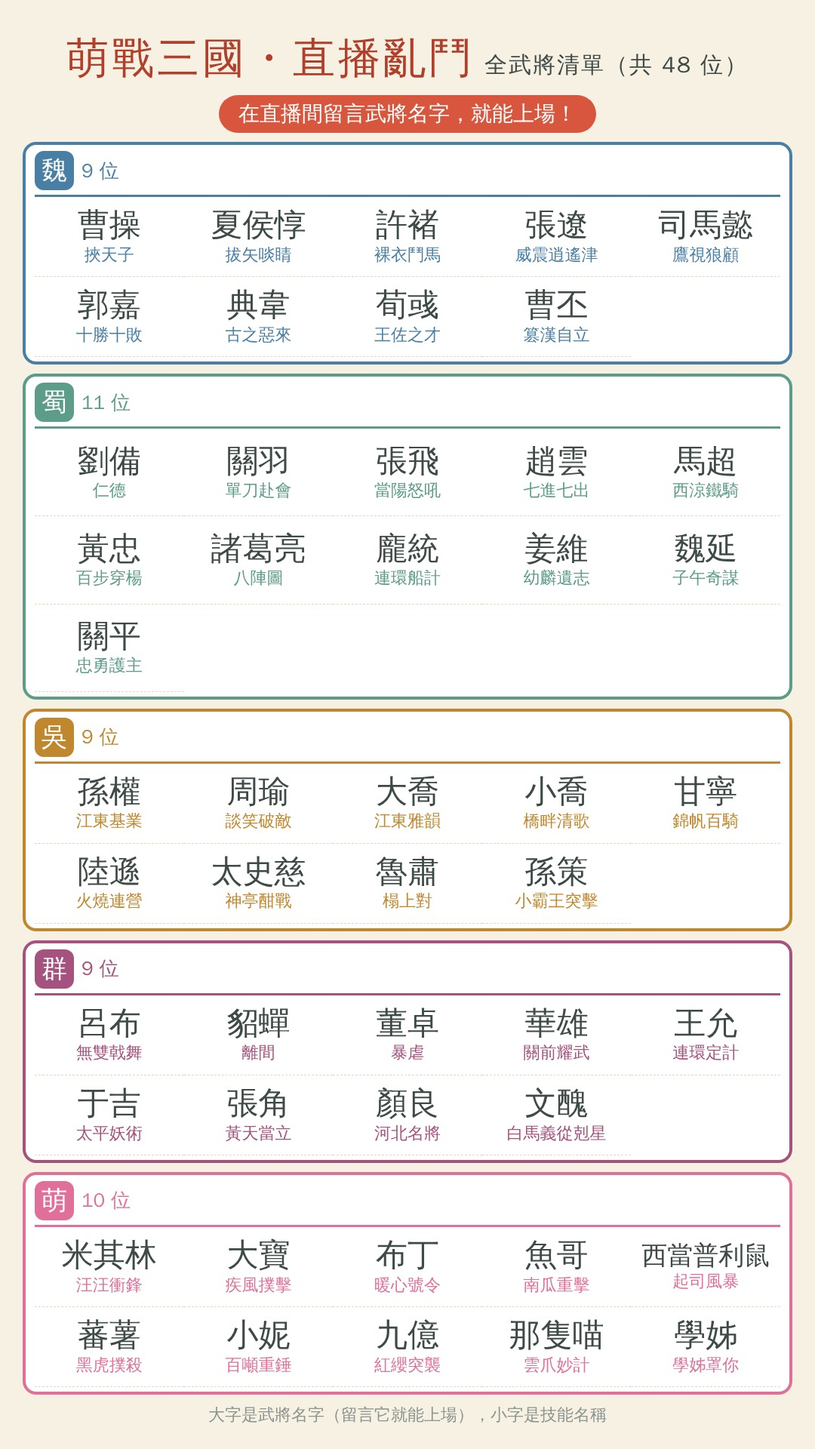
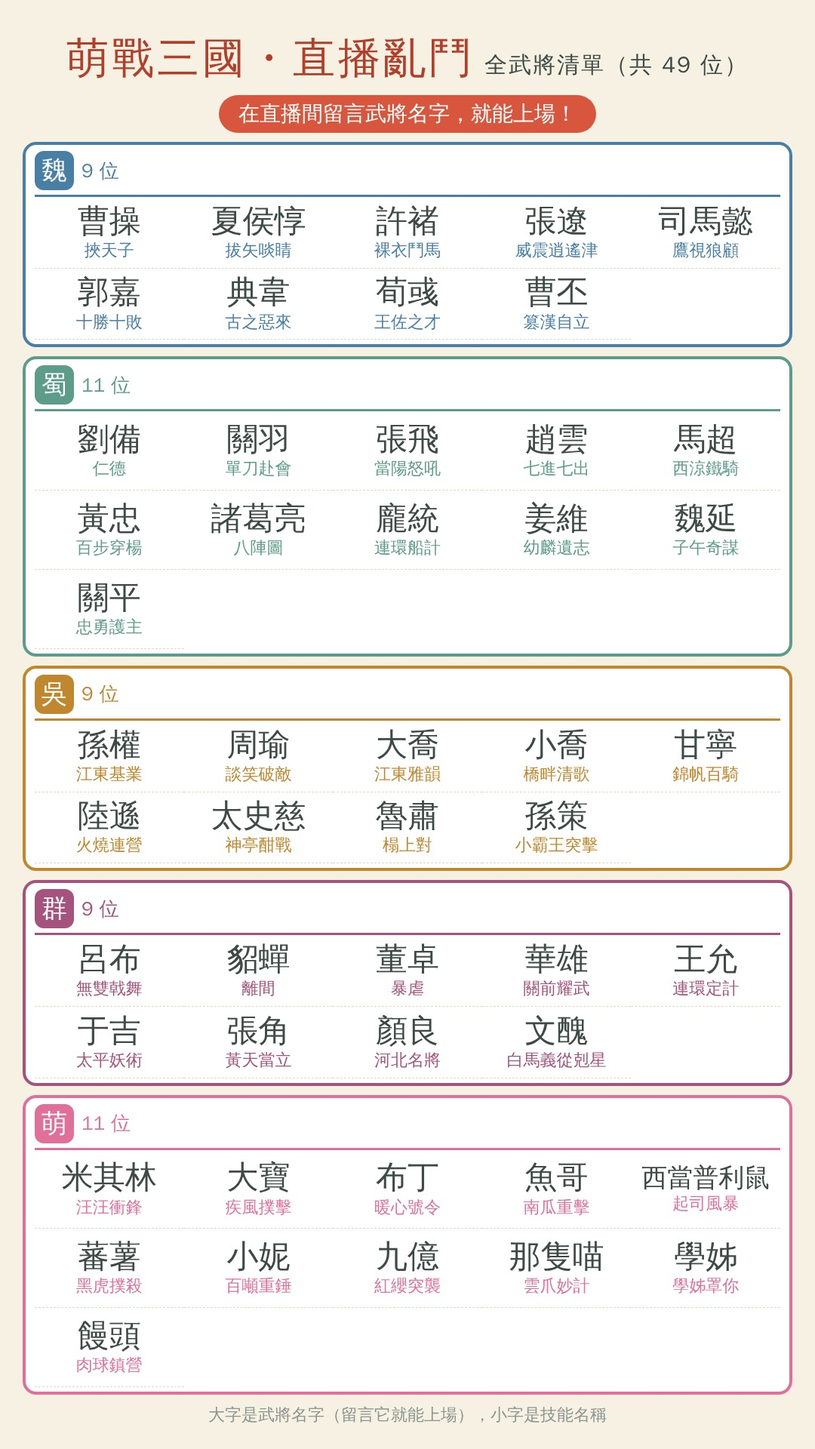
新角色「饅頭」（萌國猛將）：圖、資料、特效、四組動畫 (#95)
* 新增萌國角色「學姊」（統帥）＋動畫提示詞；原圖星巴克商標塗掉；cutout_hero 加 --model

Claude-Session: https://claude.ai/code/session_01J1mi4tQsbQufTfnNbsrTar

* 學姊待機動畫提示詞改成自拍

Claude-Session: https://claude.ai/code/session_01J1mi4tQsbQufTfnNbsrTar

* 學姊加第二組待機提示詞：拿麥克風唱歌

Claude-Session: https://claude.ai/code/session_01J1mi4tQsbQufTfnNbsrTar

* 學姊走路／普攻／技能逐格動畫登記（原圖商標塗掉）；待機圖不能用須重生

Claude-Session: https://claude.ai/code/session_01J1mi4tQsbQufTfnNbsrTar

* 學姊待機提示詞：加入杯子當麥克風版本

Claude-Session: https://claude.ai/code/session_01J1mi4tQsbQufTfnNbsrTar

* 學姊：待機動畫（拿麥克風唱歌，上半身格接技能圖下半身）

Claude-Session: https://claude.ai/code/session_01J1mi4tQsbQufTfnNbsrTar

* 修正轉輪語音後半段被切掉

Claude-Session: https://claude.ai/code/session_01J1mi4tQsbQufTfnNbsrTar

* 新角色自動開放：可選武將記下已知名單，舊設定不再擋掉那隻喵、學姊

Claude-Session: https://claude.ai/code/session_01J1mi4tQsbQufTfnNbsrTar

* 特效全面改用圖片特效（CC0 素材包），沒有圖時退回程式畫的

Claude-Session: https://claude.ai/code/session_01J1mi4tQsbQufTfnNbsrTar

* 試作：3D 武將動作拍成連續圖的工具（關羽）

Claude-Session: https://claude.ai/code/session_01J1mi4tQsbQufTfnNbsrTar

* 三國武將 38 隻動畫提示詞（走路／攻擊／技能／待機）與每日隊列

Claude-Session: https://claude.ai/code/session_01J1mi4tQsbQufTfnNbsrTar

* Gemini 排程指令與交接方式（Drive 資料夾檔名當進度）

Claude-Session: https://claude.ai/code/session_01J1mi4tQsbQufTfnNbsrTar

* 3D 拍圖的關羽試作先不登記（風格未定案），版本號 bump

Claude-Session: https://claude.ai/code/session_01J1mi4tQsbQufTfnNbsrTar

* 改用 ChatGPT Codex 生圖：排程指令、交接資料夾 inbox，提示詞加橫式 3:2

Claude-Session: https://claude.ai/code/session_01J1mi4tQsbQufTfnNbsrTar
[…]

Changed region(s): [[0.0306, 0.125, 0.9778, 0.9688], [0.7944, 0.125, 0.9167, 0.1875]]

diff --git a/js/config.js b/js/config.js
@@ -16,6 +16,7 @@ window.GAME_CONFIG = {
     hamster:  { attack: { style: 'projectile', emoji: '🧀', color: '#ffd35c' }, skill: { style: 'emojiStorm', emoji: '🧀', n: 18, color: '#ffd35c' } },   // 西當普利鼠：丟起司、起司旋風
     yam:      { attack: { style: 'claw', color: '#b06cff' }, skill: { style: 'tigerPounce', color: '#b06cff' } },                      // 蕃薯：紫色爪痕、猛虎撲殺
     joy:      { attack: { style: 'claw', color: '#ff5a4d' }, skill: { style: 'emojiRain', emoji: '🍗', n: 10, big: 0.6, color: '#ffb36b' } },   // Joy：紅色爪痕、大雞腿雨
+    mantou:   { attack: { style: 'claw', color: '#f2f2f8' }, skill: { style: 'stampSmash', text: '肉球', color: '#ffd35c' } },   // 饅頭：肉球爪擊、「肉球」大字蓋章
     xuejie:   { attack: { style: 'projectile', emoji: '🧋', color: '#d9b27a' }, skill: { style: 'heartWave', emoji: '🍵', color: '#7bd46b' } },   // 學姊：丟冰飲、抹茶光波
     nekomeow: { attack: { style: 'claw', color: '#8f9bff' }, skill: { style: 'emojiStorm', emoji: '🐾', n: 16, color: '#8f9bff' } },   // 那隻喵：藍紫爪痕、肉球旋風
     xiaoni:   { attack: { style: 'shockSmash', color: '#ffd35c' }, skill: { style: 'stampSmash', text: '100T', color: '#ffd35c' } },   // 小妮：重擊震波、100T 大字砸下來
@@ -408,6 +409,13 @@ window.GAME_CONFIG = {
       walk: { src: 'hamster_walk.png', frames: 7, cw: 271, ch: 324, ground: 320, fps: 9 },   // 走路循環（原圖 16 格有的有羽扇有的沒有，只挑有羽扇的 7 格）
     },
     // 蕃薯：待機＝吃薯條（8 格，每秒 3 格連播 2 輪）；攻擊／技能＝撲出去咬（8 格，第 5 格咬下去；普攻 13 格/秒、技能 11 格/秒）
+    mantou: {   // 饅頭：Gemini／ChatGPT 生圖（8 格 4x2，make_anim_sheet.py --grid 4x2 --faces left --match-height 396）
+      idle: { src: 'mantou_idle.png', frames: 8, cw: 312, ch: 411, ground: 408, fps: 3, repeat: 2 },   // 待機：拿出超大罐頭開心地吃（素色橘標籤罐頭，沒有商標）；之後做呼吸待機再當 idle，這組改成 idle2
+      eat: { src: 'mantou_idle.png', frames: 8, cw: 312, ch: 411, ground: 408, fps: 3, repeat: 2 },   // 回血時也播同一組
+      walk: { src: 'mantou_walk.png', frames: 8, cw: 304, ch: 402, ground: 399, fps: 9 },   // 直立胖貓搖擺走路
+      attack: { src: 'mantou_attack.png', frames: 8, cw: 317, ch: 405, ground: 402, fps: 10, hitFrame: 5 },   // 肉球爪擊，第 5 格手伸到最前面
+      skill: { src: 'mantou_skill.png', frames: 8, cw: 331, ch: 421, ground: 417, fps: 8, hitFrame: 6 },   // 技能「肉球鎮營」：蹲下→跳起→披風飛揚落下→雙手往前壓（Gemini 的動作跟提示詞略有不同）
+    },
     xuejie: {
       idle: { src: 'xuejie_idle.png', frames: 7, cw: 252, ch: 415, ground: 412, fps: 3, repeat: 2 },   // 待機：拿麥克風唱歌（用 AI 原圖只有上半身的格子接上腿拼成，共 7 格；原圖第 7 格沒拿杯子沒用）
       eat: { src: 'xuejie_idle.png', frames: 7, cw: 252, ch: 415, ground: 412, fps: 3, repeat: 2 },   // 回血時也播同一組

diff --git a/data/extra-heroes.js b/data/extra-heroes.js
@@ -27,4 +27,6 @@ window.HEROES_DATA = window.HEROES_DATA.concat([
   { heroId: 'nekomeow', displayName: '那隻喵', faction: 'Meng', troop: 'Strategist', baseHp: 600, baseAtk: 68, baseArmor: 28, skillName: '雲爪妙計', extra: true },
   // 學姊（2026-11-16 咖哩第十隻）：萌國的長髮眼鏡女孩統帥（灰色連帽、牛仔外套、黑色上衣短褲、光腳，手拿冰抹茶拿鐵）。能力值取統帥平均（同布丁），技能「學姊罩你」，演出＝光環＋光柱。名字以外的設定（兵種、數值、技能名）是 Claude 先定的。原圖的杯子上有星巴克的商標，已在圖上把商標塗成素色綠色圓形貼紙（見 CLAUDE.md）。
   { heroId: 'xuejie', displayName: '學姊', faction: 'Meng', troop: 'Commander', baseHp: 746, baseAtk: 55, baseArmor: 34, skillName: '學姊罩你', extra: true },
+  // 饅頭（2026-11-17 咖哩第十一隻）：萌國的灰虎斑胖貓猛將（紅纓頭盔、紅金鎧甲、紅披風、腰間佩劍，圓滾滾的白肚子）。能力值取猛將中間檔（同米其林），技能「肉球鎮營」，演出＝衝撞地裂。名字以外的設定（兵種、數值、技能名）是 Claude 先定的。
+  { heroId: 'mantou', displayName: '饅頭', faction: 'Meng', troop: 'Vanguard', baseHp: 928, baseAtk: 52, baseArmor: 47, skillName: '肉球鎮營', extra: true },
 ]);

diff --git a/js/version.js b/js/version.js
@@ -1,3 +1,3 @@
 // 目前的版本號。每次有更新要上線，就跑 python3 tools/bump_version.py（會同時改這個檔和 version.json）。
 // 直播畫面會定時去讀 version.json，發現跟自己不一樣就自動更新（見 js/updater.js）。
-window.APP_VERSION = '2026-11-16.30';
+window.APP_VERSION = '2026-11-17.2';

diff --git a/CLAUDE.md b/CLAUDE.md
@@ -193,7 +193,7 @@
 
 ## 素材與資料：來自 Curry_Games（只讀）
 - `sky03104/Curry_Games` 是另一個遊戲「萌戰三國」。**只能讀，不可修改、不可 commit、不可 push。**
-- 武將資料以 `Curry_Games/UnityProject/Assets/_Project/Data/heroes.json` 為準（38 隻）。**例外：直播亂鬥自己新增的角色**放在 `data/extra-heroes.js`（手寫，不會被同步工具蓋掉），目前有「米其林」「大寶」「布丁」「魚哥」「西當普利鼠」「蕃薯」「小妮」「九億」「那隻喵」「學姊」（都是萌國）。
+- 武將資料以 `Curry_Games/UnityProject/Assets/_Project/Data/heroes.json` 為準（38 隻）。**例外：直播亂鬥自己新增的角色**放在 `data/extra-heroes.js`（手寫，不會被同步工具蓋掉），目前有「米其林」「大寶」「布丁」「魚哥」「西當普利鼠」「蕃薯」「小妮」「九億」「那隻喵」「學姊」「饅頭」（都是萌國）。
   中文名、英文 ID、陣營的對應**一律照這個檔，不要自己猜**。
   - 注意：檔案裡陣營的寫法是 `Wei`／`Shu`／`Wu`／`Qun`（群不是寫「群」）。
 - 武將圖用**全身圖**：`Curry_Games/UnityProject/Assets/_Project/Resources/HeroPortraitsFullBody2D/`，
@@ -218,6 +218,7 @@
   - **小妮的攻擊改慢、錘子換金色**（2026-11-15 咖哩要求；先試過程式把黑錘改紅，後來咖哩給了 Gemini 重生的金色大錘新圖就整組換掉）：新圖第 6、7 格的錘頭和身體疊在一起（連成一塊，工具切不開），所以第 7 格（砸地）用顏色分開處理後再拼回去；第 7 格左邊的塵土有一條垂直切痕；攻擊 3.5 格/秒、技能 2.8 格/秒（咖哩再嫌快，原本 5／4），整段約 2.3／2.9 秒，砸中約 1.9／2.3 秒。**新機制 `hitFrame`**：`heroAnims.<id>.attack／skill` 可寫 `hitFrame: 7`（第幾格打中），衝撞時間與傷害數字就對在那一格（沒寫的武將仍是固定 0.31 秒）。驗證：瀏覽器測過普攻約 1.3 秒時傷害數字出現、錘子剛好砸在地上；⚠ 錘頭上色是程式按位置挑的，個別格子頭髮或手邊有零星紅點。
   - **那隻喵**（2026-11-16 咖哩第九隻）：布偶貓謀士（藍眼、深棕白毛、小金冠、藍紫金邊披風、肉球徽章；咖哩給的設定稿上寫「貓將・雲瑛・智謀・輔佐・謀略」，**遊戲裡名字用咖哩指定的「那隻喵」**），`heroId: nekomeow`，謀士（技能演出＝法陣落雷），血 600／攻 68／防 28（同西當普利鼠），技能「雲爪妙計」。名字以外的設定（兵種、數值、技能名）是 Claude 先定的。圖：從咖哩給的角色設定稿裁出左上最大的那隻（座標約 0,0～715,762），用 `tools/cutout_hero.py` 去背（乾淨，沒有留下設定稿的字或其他視角），`assets/heroes/nekomeow.png`；圖面向左（臉朝向畫面左邊偏正面）。專屬特效：藍紫色爪痕（普攻）＋肉球🐾旋風（技能，`emojiStorm`）。**逐格動畫已做好並登記**（2026-11-16 咖哩用 Gemini 照 `tools/anim_prompts/nekomeow.md` 的提示詞生圖）：**待機**＝洗臉理毛（`nekomeow_idle.png`，原圖 8 格但第 8 格是正面站姿跟其他格不連，只用前 7 格，3 格/秒連播 2 輪，回血 `eat` 用同一組）、**走路**＝四足側面（`nekomeow_walk.png`，8 格，9 格/秒；原圖有黑格線，`--erase-grid 12 --drop-thin 8`）、**普攻**＝蓄力→前撲→空中舉爪→爪擊（`nekomeow_attack.png`，**原圖只有 4 個能用的格**：另一張是特寫、大小不一，所以只用 4 格＋最後一格接回第 1 格的蓄力當落地，共 5 格，10 格/秒，`hitFrame: 4`；原圖第 4 格方向跟前三格相反，用 `--flip 4`）、**技能「雲爪妙計」**＝站起→雙爪高舉→肉球符印浮現→推出→符印飛遠→收勢（`nekomeow_skill.png`，**9 格**，9 格/秒，`hitFrame: 7`）。原圖面向右（走路、待機、技能）或左（普攻前三格）。**排版不規則的圖（技能圖是 3＋2＋2＋2、普攻圖有特寫）的做法**：不用工具硬切，先用小程式把每格手動框出來、重新貼成整齊的 3x3（或 2x2）乾淨格子（每格只含自己的貓和特效），再丟給 `make_anim_sheet.py`；並順手擦掉旁邊大圖伸進來的披風一角。四組的縮放（`--scale` 1.0／1.15／1.08／1.42）是量「頭的大小」跟單張圖對齊的，各原圖解析度、排版不同所以不一樣。`make_anim_sheet.py` 新增 `--drop-thin N`（把又扁又細、高或寬 ≤ N 像素的碎片丟掉，格線沒擦乾淨留下的細線；主體不會被丟）。驗證：瀏覽器測過留言上場、待機、走路、普攻（爪痕特效＋傷害數字）、技能（法陣＋肉球旋風＋動畫）都有播、無錯誤；⚠ 沒在直播軟體裡看過；普攻只有 4 張原圖格，動作比其他角色短而簡單，想更完整可以再生一組普攻（提示詞同檔案第 3 個，注意不要出現特寫、每格大小一致）；賽跑時走路動畫已有。名冊圖（`roster/`）與玩法說明圖（第 15 張萌國頁，9 位）已重新產生；萌國頁因為多一隻，下方文字卡預留空間從 360 改 440 才收得進安全區。驗證：瀏覽器測過留言「那隻喵」上場、顯示「萌・那隻喵」、普攻與技能無錯誤；⚠ 沒在直播軟體裡看過，特效顏色與演出沒細看。
   - **學姊**（2026-11-16 咖哩第十隻）：長髮眼鏡女孩統帥（灰色連帽、黑框眼鏡、牛仔外套、黑上衣短褲、光腳、手拿冰抹茶拿鐵），`heroId: xuejie`，統帥（技能演出＝光環＋光柱），血 746／攻 55／防 34（同布丁，**全員同能力開著時不生效**），技能「學姊罩你」。名字以外的設定（兵種、數值、技能名）是 Claude 先定的。專屬特效：丟冰飲🧋（普攻）＋抹茶🍵光波（技能，`heartWave`）。**⚠ 原圖杯子上有星巴克（Starbucks）的商標（美人魚圖案）**——這個 repo 是公開的、要在 TikTok 直播，真實品牌商標不適合放進去，所以**處理圖時用小程式把商標塗掉，變成杯上一個素色深綠色圓形貼紙**（只改商標圓形範圍內的像素、避開手指；`assets/heroes/xuejie.png`）。**之後給 Claude 新圖或動畫圖時，如果杯子上還有商標，Claude 會再塗掉；生圖提示詞也已寫明「杯身不要商標」**。去背：預設模型（isnet）會把裸露的小腿和腳當成背景去掉（背景是深色光暈、皮膚顏色接近），改用 `birefnet-general`（`cutout_hero.py --model birefnet-general`，第一次執行下載約 1GB 模型，這台雲端環境下載得到），全身（含光腳）完整。圖面向右（視線往右上），所以列進 `config.js` 的 `artFacesRight`（跟太史慈一樣，程式才會左右翻對）。**逐格動畫：走路／普攻／技能／待機都已做好並登記**（2026-11-16 咖哩用 Gemini 生圖）：**走路**＝悠閒走路 12 格（`xuejie_walk.png`，12 格/秒）、**普攻**＝吸飲料→皺眉→彈指→伸手向前→收回 8 格（`xuejie_attack.png`，`hitFrame: 6`，伸手向前那格）、**技能**＝舉杯→叉腰→頭髮飛揚→比讚笑→手指向前→回站姿 8 格（`xuejie_skill.png`，`hitFrame: 7`，手指向前那格；原圖第 8 格只畫到腰、被格子切掉所以沒用）。**⚠ Gemini 雖然被要求杯身不能有商標，但走路圖第 3 排 4 格、普攻圖最後一格的杯子上還是長出了星巴克商標**：這幾格我用小程式在杯上蓋素色深綠貼紙（座標是看圖量的，不是自動偵測；自動偵測會誤傷腿上陰影，所以改手動座標）。**之後每次收到她的新動畫圖，都要檢查杯子有沒有商標**。圖片版面不規則（技能圖有格子黏在一起、有的格被切掉），做法：自動找出每個角色（連通塊，附近的小碎片歸給最近的角色）、第 6／7 格黏在一起的用「侵蝕找出兩個身體核心再把其餘像素分給最近的核心」切開、小於本體 1.2% 的雜點丟掉，再重新貼成整齊的格子交給 `make_anim_sheet.py`（`--scale` 0.89～1.0 依各圖角色大小量過）。**待機（拿麥克風唱歌）已做好並登記**（`xuejie_idle.png`，7 格，3 格/秒連播 2 輪，回血 `eat` 用同一組）：咖哩第三版生圖仍然每格只畫到腰（被格子切掉腿），所以**用技能圖裡的下半身（短褲＋腿＋光腳）接到每格上半身上**（比對黑衣寬度與中心後縮放貼上，腳本不在 repo、一次性做的）；原圖第 7 格沒拿杯子丟掉、第 2 格沒拿杯子保留（唱歌拿麥克風的那格，可接受）。⚠ 大腿接縫處第 5～7 格有淡淡的接線痕跡，畫面縮小後看不出來；想更乾淨要請 Gemini 重生「全身入鏡」的版本。登記後她停下來時會播這組。其餘提示詞在 `tools/anim_prompts/xuejie.md`（待機＝自拍（掏手機、剪刀手吐舌、鴨子嘴、看照片笑，2026-11-16 咖哩嫌原本「悠哉喝飲料」太普通換掉），另有第二組待機「拿麥克風唱歌」（提示詞 1b，咖哩 2026-11-16 要的，登記時當 `idle2`，兩組停下來時隨機挑）、走路＝悠閒走路、普攻＝彈指一擊（第 5 格命中）、技能＝舉杯鼓舞（第 6 格施放），都寫明不畫特效、杯身無商標），咖哩生圖後交給 Claude 處理。名冊圖與玩法說明圖已重新產生（萌國頁 10 位，下方文字卡拿掉重複的名字列表，騰空間給 4 排武將圖）。⚠ 觀眾留言**含「學姊」兩個字**（第一次上場是「留言含武將名就算」）就會帶這隻上場，聊天裡提到學姊會誤觸發；驗證：瀏覽器測過留言上場、顯示「萌・學姊」、普攻與技能（抹茶光波）無錯誤；⚠ 沒在直播軟體裡看過。
+  - **饅頭**（2026-11-17 咖哩第十一隻）：灰虎斑胖貓穿紅金鎧甲（紅纓頭盔、獅頭肩甲、紅披風、腰間佩劍、白色圓肚子，用兩腳直立），`heroId: mantou`，猛將（技能演出＝衝撞地裂），血 928／攻 52／防 47（同米其林），技能「肉球鎮營」。名字以外的設定（兵種、數值、技能名）是 Claude 先定的。專屬特效：白色爪痕（普攻）＋「肉球」大字蓋章（技能，`stampSmash`）。圖：咖哩給的原圖是深色紅光暈背景，用 `tools/cutout_hero.py --model birefnet-general` 去背（乾淨），`assets/heroes/mantou.png`；圖面向左偏正面（不需列進 `artFacesRight`）。**逐格動畫已做好並登記**（2026-11-17 咖哩用 Gemini／ChatGPT 照 `tools/anim_prompts/mantou.md` 的提示詞生圖，四組都是乾淨的 4x2 綠底 8 格，`make_anim_sheet.py --grid 4x2 --faces left --match-height 396` 一次處理好，沒有格線、沒有被切邊）：**待機**＝拿出超大罐頭開心地吃（素色銀罐＋橘色標籤，沒有商標；目前登記成 `idle`，回血 `eat` 也用它，3 格/秒連播 2 輪；之後做呼吸待機再把這組改成 `idle2` 隨機輪流）、**走路**＝直立胖貓搖擺（9 格/秒）、**普攻**＝肉球爪擊（10 格/秒，`hitFrame: 5`）、**技能**＝蹲下→跳起→披風飛揚落下→雙手往前壓（8 格/秒，`hitFrame: 6`；Gemini 畫的動作跟提示詞略有不同，沒有重生）。驗證：瀏覽器測過上場待機、普攻、技能都有播、大小跟單張圖一致、無錯誤。⚠ 呼吸待機還沒做；提示詞在 `tools/anim_prompts/mantou.md`（攻擊＝肉球爪擊、技能＝跳起來全身壓下、待機＝呼吸晃動、走路＝直立胖貓搖擺，優先順序攻擊→技能→待機→走路；已含「附參考圖、橫式 3:2、不要特效、不要紅色光暈」）。名冊圖與玩法說明圖已重新產生（萌國頁 11 位仍收得進安全區）。驗證：瀏覽器測過留言「饅頭」上場、技能（「肉球」大字蓋章）無錯誤、4 組測試全過；⚠ 沒在直播軟體裡看過，「肉球」大字很大（跟「100T」同一種演出）。觀眾留言**含「饅頭」兩個字**就會帶這隻上場。
   - 觀眾第一次上場是「留言裡含武將名就算」，所以聊天提到「米其林餐廳」之類的詞也會讓還沒上場的人帶著米其林上場。
 - 同步方式：`python3 tools/sync_from_curry_games.py`（需要 Pillow），會重新產生 `data/heroes.js`，
   並把全身圖縮成 312x396 放到 `assets/heroes/`（原圖每張約 0.5MB，縮小後整包約 7MB）。
@@ -338,8 +339,8 @@
 | `index.html` | 入口。直接開＝帶假事件面板的試玩模式；網址加 `?obs=1`＝只有透明遊戲畫面（給 OBS） |
 | `js/config.js` | **設定檔**：禮物、傷害、血量、復活秒數、顏色 |
 | `data/heroes.js` | 38 隻武將資料（自動產生） |
-| `assets/heroes/` | 47 張武將全身圖（已縮小）：38 張來自萌戰三國，加上自己新增的萌國 10 隻（米其林、大寶、布丁、魚哥、西當普利鼠、蕃薯、小妮、九億、那隻喵、學姊）|
-| `data/extra-heroes.js` | 自己新增的角色資料（手寫）：萌國 10 隻 |
+| `assets/heroes/` | 47 張武將全身圖（已縮小）：38 張來自萌戰三國，加上自己新增的萌國 11 隻（米其林、大寶、布丁、魚哥、西當普利鼠、蕃薯、小妮、九億、那隻喵、學姊、饅頭）|
+| `data/extra-heroes.js` | 自己新增的角色資料（手寫）：萌國 11 隻 |
 | `tools/anim_prompts/` | 給生圖工具的逐格動畫提示詞（目前有那隻喵、學姊） |
 | `tools/cutout_hero.py` | 把角色圖去背並轉成遊戲用的全身圖 |
 | `js/events.js` | 事件來源層（假面板／之後的 TikTok） |

diff --git a/tools/anim_prompts/mantou.md b/tools/anim_prompts/mantou.md
@@ -1,0 +1,89 @@
+# 饅頭（mantou）逐格動畫提示詞（給 Gemini／ChatGPT 等生圖工具）
+
+參考圖：`assets/heroes/mantou.png`（去背後的全身圖；原圖是咖哩給的，灰虎斑胖貓穿紅金鎧甲）。**每次都要真的附上參考圖片檔，不要只貼網址。**
+生成後把圖給 Claude，用 `tools/make_anim_sheet.py` 處理並登記 `heroAnims`。建議命中格：普攻第 5 格、技能第 6 格。**優先順序：攻擊、技能、待機、走路。**
+
+## 共用規格（每個動畫都要貼）
+```
+角色：附圖裡的貓咪武將「饅頭」——灰色虎斑紋的胖貓，綠色大眼睛、白色的圓肚子與白色手掌腳掌，頭戴紅色羽纓的金邊黑紅頭盔（頭盔正面有金色獅頭紋），身穿紅色方格紋鎧甲搭配金色獅頭肩甲與胸甲，紅色圍巾、紅色披風，紅色腰帶上有金色獅頭扣與紅色流蘇，腰間佩著黑金色的劍鞘（劍收在鞘裡），尾巴有深灰色環紋。每一格的臉、紋路、鎧甲、披風、顏色都必須跟附圖**一模一樣**，用跟附圖同樣精緻的可愛插畫風。請嚴格照附圖的角色畫，不是憑想像。
+
+背景：純綠色 #00FF00，整張圖只有這一種綠色，不要地面、不要陰影、不要漸層、不要紅色光暈。（角色身上不要出現鮮豔的純綠色；貓眼睛的綠色維持附圖那種柔和的黃綠色。）
+
+排版：圖片橫式 3:2；8 格，4 欄 × 2 列，每格一樣大、等距排列，格與格之間留綠色空白；不要格線、邊框、文字、編號。閱讀順序由左到右、由上到下。
+
+每一格：角色全身完整入鏡（含耳朵、羽纓、尾巴、腳，不被切到邊）；角色要畫小一點，每格上下左右都留至少 10% 的綠色空白，絕對不能超出格子；角色大小每格一致；腳底站的高度每格一致（跳起來的格除外）。
+
+方向：角色朝向畫面左邊（身體與臉轉向左側，3/4 側面），每格鏡頭角度一致。這是用兩隻後腳站立的胖貓，走路與動作時保持這種「直立走路的貓」的姿態，不要變成四腳著地的貓。
+特效：什麼特效都不要畫（不要光、不要線條、不要殘影、不要文字、不要塵土），特效由遊戲自己處理。
+```
+
+## 1. 攻擊（attack）——肉球爪擊，8 格
+```
+【貼上共用規格】
+動畫：普攻，用肉球爪子揮擊。8 格由左到右、由上到下：
+1. 站著，雙手放在胸前，擺出準備姿勢
+2. 一隻手向後拉開，身體微微後仰
+3. 肚子往後縮，手臂拉到最後，蓄力到最大
+4. 身體向前傾，手臂開始揮出
+5. 肉球爪子揮到最前方，打中前方目標（命中瞬間）
+6. 揮擊的餘勢，手臂劃過身體另一側，披風向後飄
+7. 收回手臂，身體回正
+8. 回到第 1 格的準備姿勢（要能接回第 1 格）
+```
+
+## 2. 技能（skill）「肉球鎮營」——全身重量壓下去，8 格
+```
+【貼上共用規格】
+動畫：技能「肉球鎮營」。8 格由左到右、由上到下：
+1. 站著，雙手握拳放在胸前，準備姿勢
+2. 蹲低，身體往下沉蓄力，肚子壓在腿上
+3. 雙腿用力一蹬，身體向上跳起（腳離地）
+4. 在空中，雙手高舉過頭，肚子朝下，到達最高點
+5. 開始下墜，雙手往下壓，披風被風往上吹
+6. 重重落地，雙腳著地、雙手往下拍向地面（命中瞬間；不要畫塵土或震波）
+7. 落地的餘勢，身體往前傾，肚子晃動
+8. 慢慢站直，回到準備姿勢（要能接回第 1 格）
+```
+
+## 3. 待機（idle）——呼吸晃動，8 格循環
+```
+【貼上共用規格】
+動畫：待機，8 格循環播放。直立站著，圓滾滾的肚子隨呼吸一起一伏，尾巴輕輕擺動，耳朵偶爾抖一下。8 格由左到右、由上到下：
+1. 站定，吸氣，尾巴垂在左邊
+2. 肚子微微鼓起，尾巴開始往右擺
+3. 吸氣到最高，頭微微抬起，尾巴擺到右邊
+4. 開始吐氣，耳朵輕輕抖一下
+5. 肚子慢慢縮回，尾巴往左擺
+6. 重心微微換到另一隻腳，眼睛眨一下
+7. 頭輕輕轉一下看向前方，尾巴垂回中間
+8. 回到第 1 格的姿勢（循環不跳）
+```
+
+## 3b. 待機二（吃超大罐頭，循環）——可以跟呼吸待機當兩組，停下來時隨機挑一組（登記成 `idle2`）
+```
+【貼上共用規格，另外加一條：罐頭是素色的銀色金屬罐，罐身只有一圈素色的暖橘色標籤，沒有任何商標、文字、圖案或貓咪圖片】
+
+動畫：待機，饅頭拿出超大罐頭開心地吃，8 格循環播放。罐頭很大，跟饅頭的身體差不多大，圓圓的，頂端是拉環蓋。8 格由左到右、由上到下：
+1. 直立站著，雙手空著，眼睛突然睜大，看向前方
+2. 一手伸到披風後面，開始掏東西，身體微微側傾
+3. 抱出一個超大的罐頭，用雙手抱在肚子前面，開心瞇眼
+4. 把罐頭放在身前，一手扶著罐頭，一手拉開拉環蓋，開出一個口
+5. 低下頭，把嘴湊近罐頭口，吃了一大口，兩頰鼓起
+6. 抬頭咀嚼，嘴巴鼓鼓的，眼睛瞇成彎月，尾巴開心地翹起
+7. 再低頭吃第二口，罐頭裡的東西比剛剛少了一點
+8. 抱著罐頭抬頭，舔嘴巴，滿足地瞇眼，動作要能接回第 1 格附近（循環不跳；可以讓罐頭在這一格慢慢收回披風後面）
+```
+
+## 4. 走路（walk）——直立走路的胖貓，8 格循環
+```
+【貼上共用規格】
+動畫：走路循環，8 格。用兩隻後腳直立、一搖一擺的走路，肚子與披風隨步伐晃動，雙手自然擺動。8 格由左到右、由上到下：
+1. 左腳在前著地，身體微微下沉
+2. 重心移到左腳，身體升起，右腳離地
+3. 右腳向前擺出
+4. 右腳在前著地，身體微微下沉
+5. 重心移到右腳，身體升起，左腳離地
+6. 左腳向前擺出
+7. 左腳繼續向前，接近第 1 格的姿勢
+8. 回到第 1 格前一刻的姿勢（循環不跳）
+```
